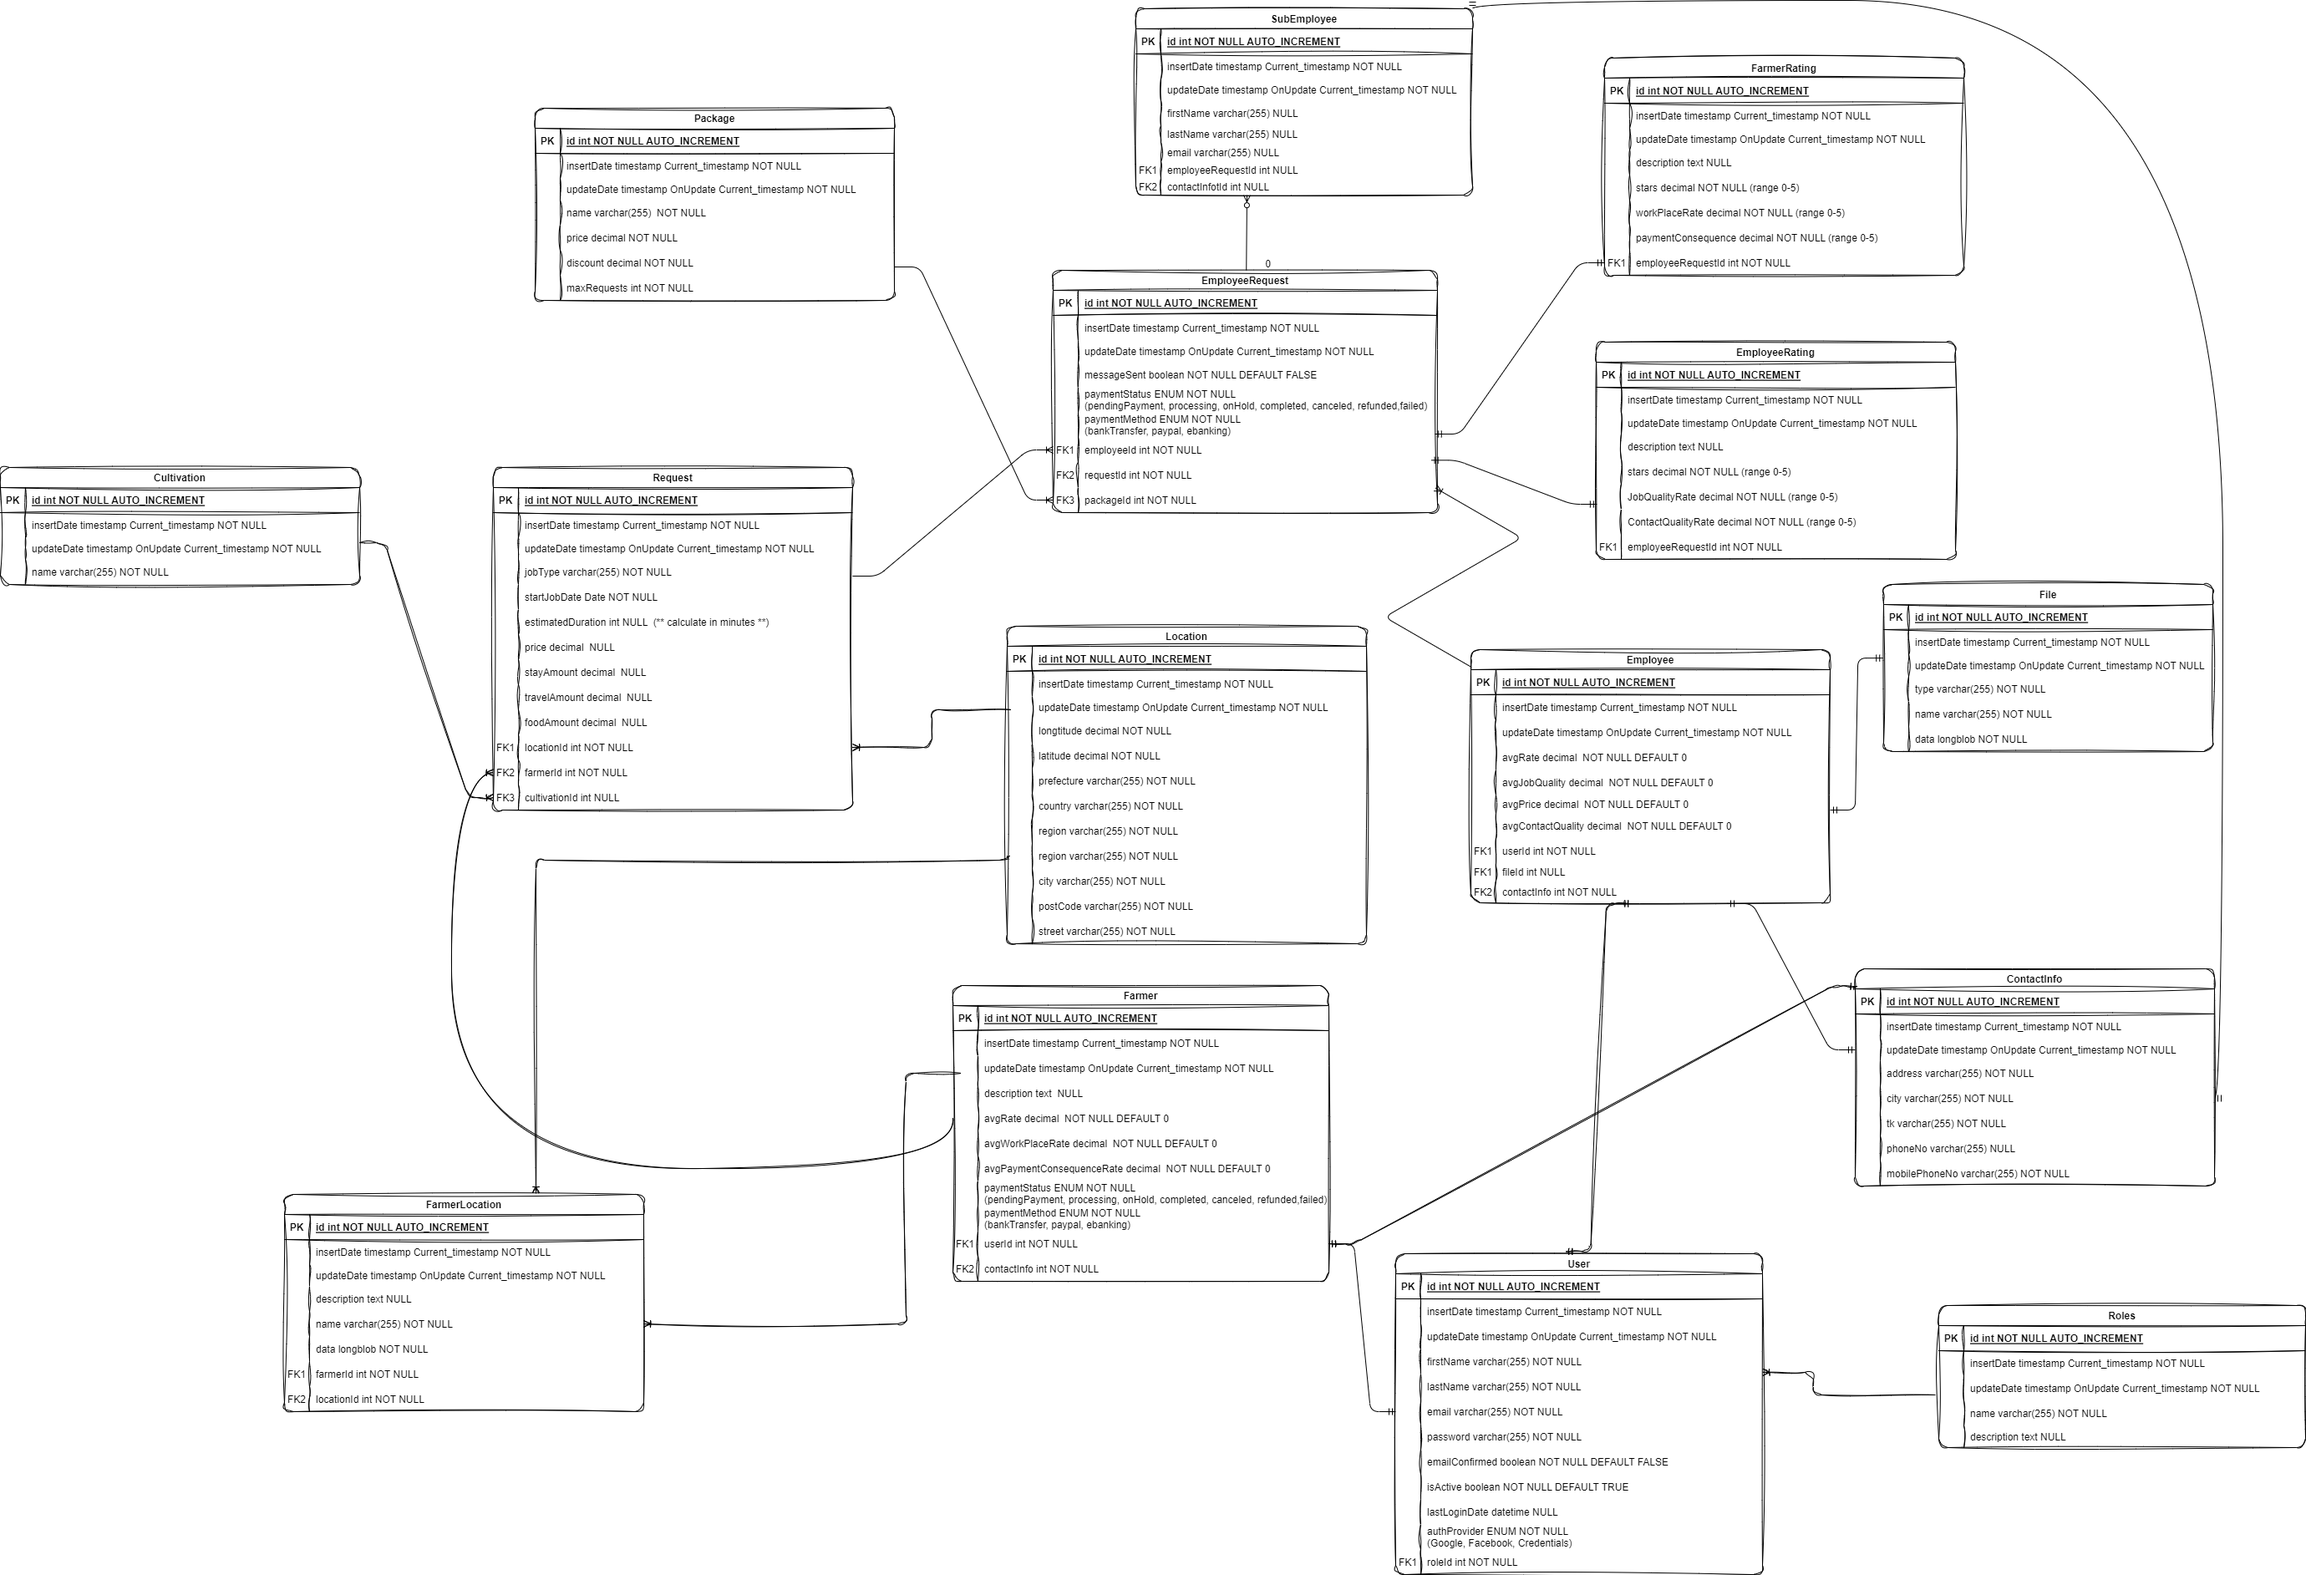
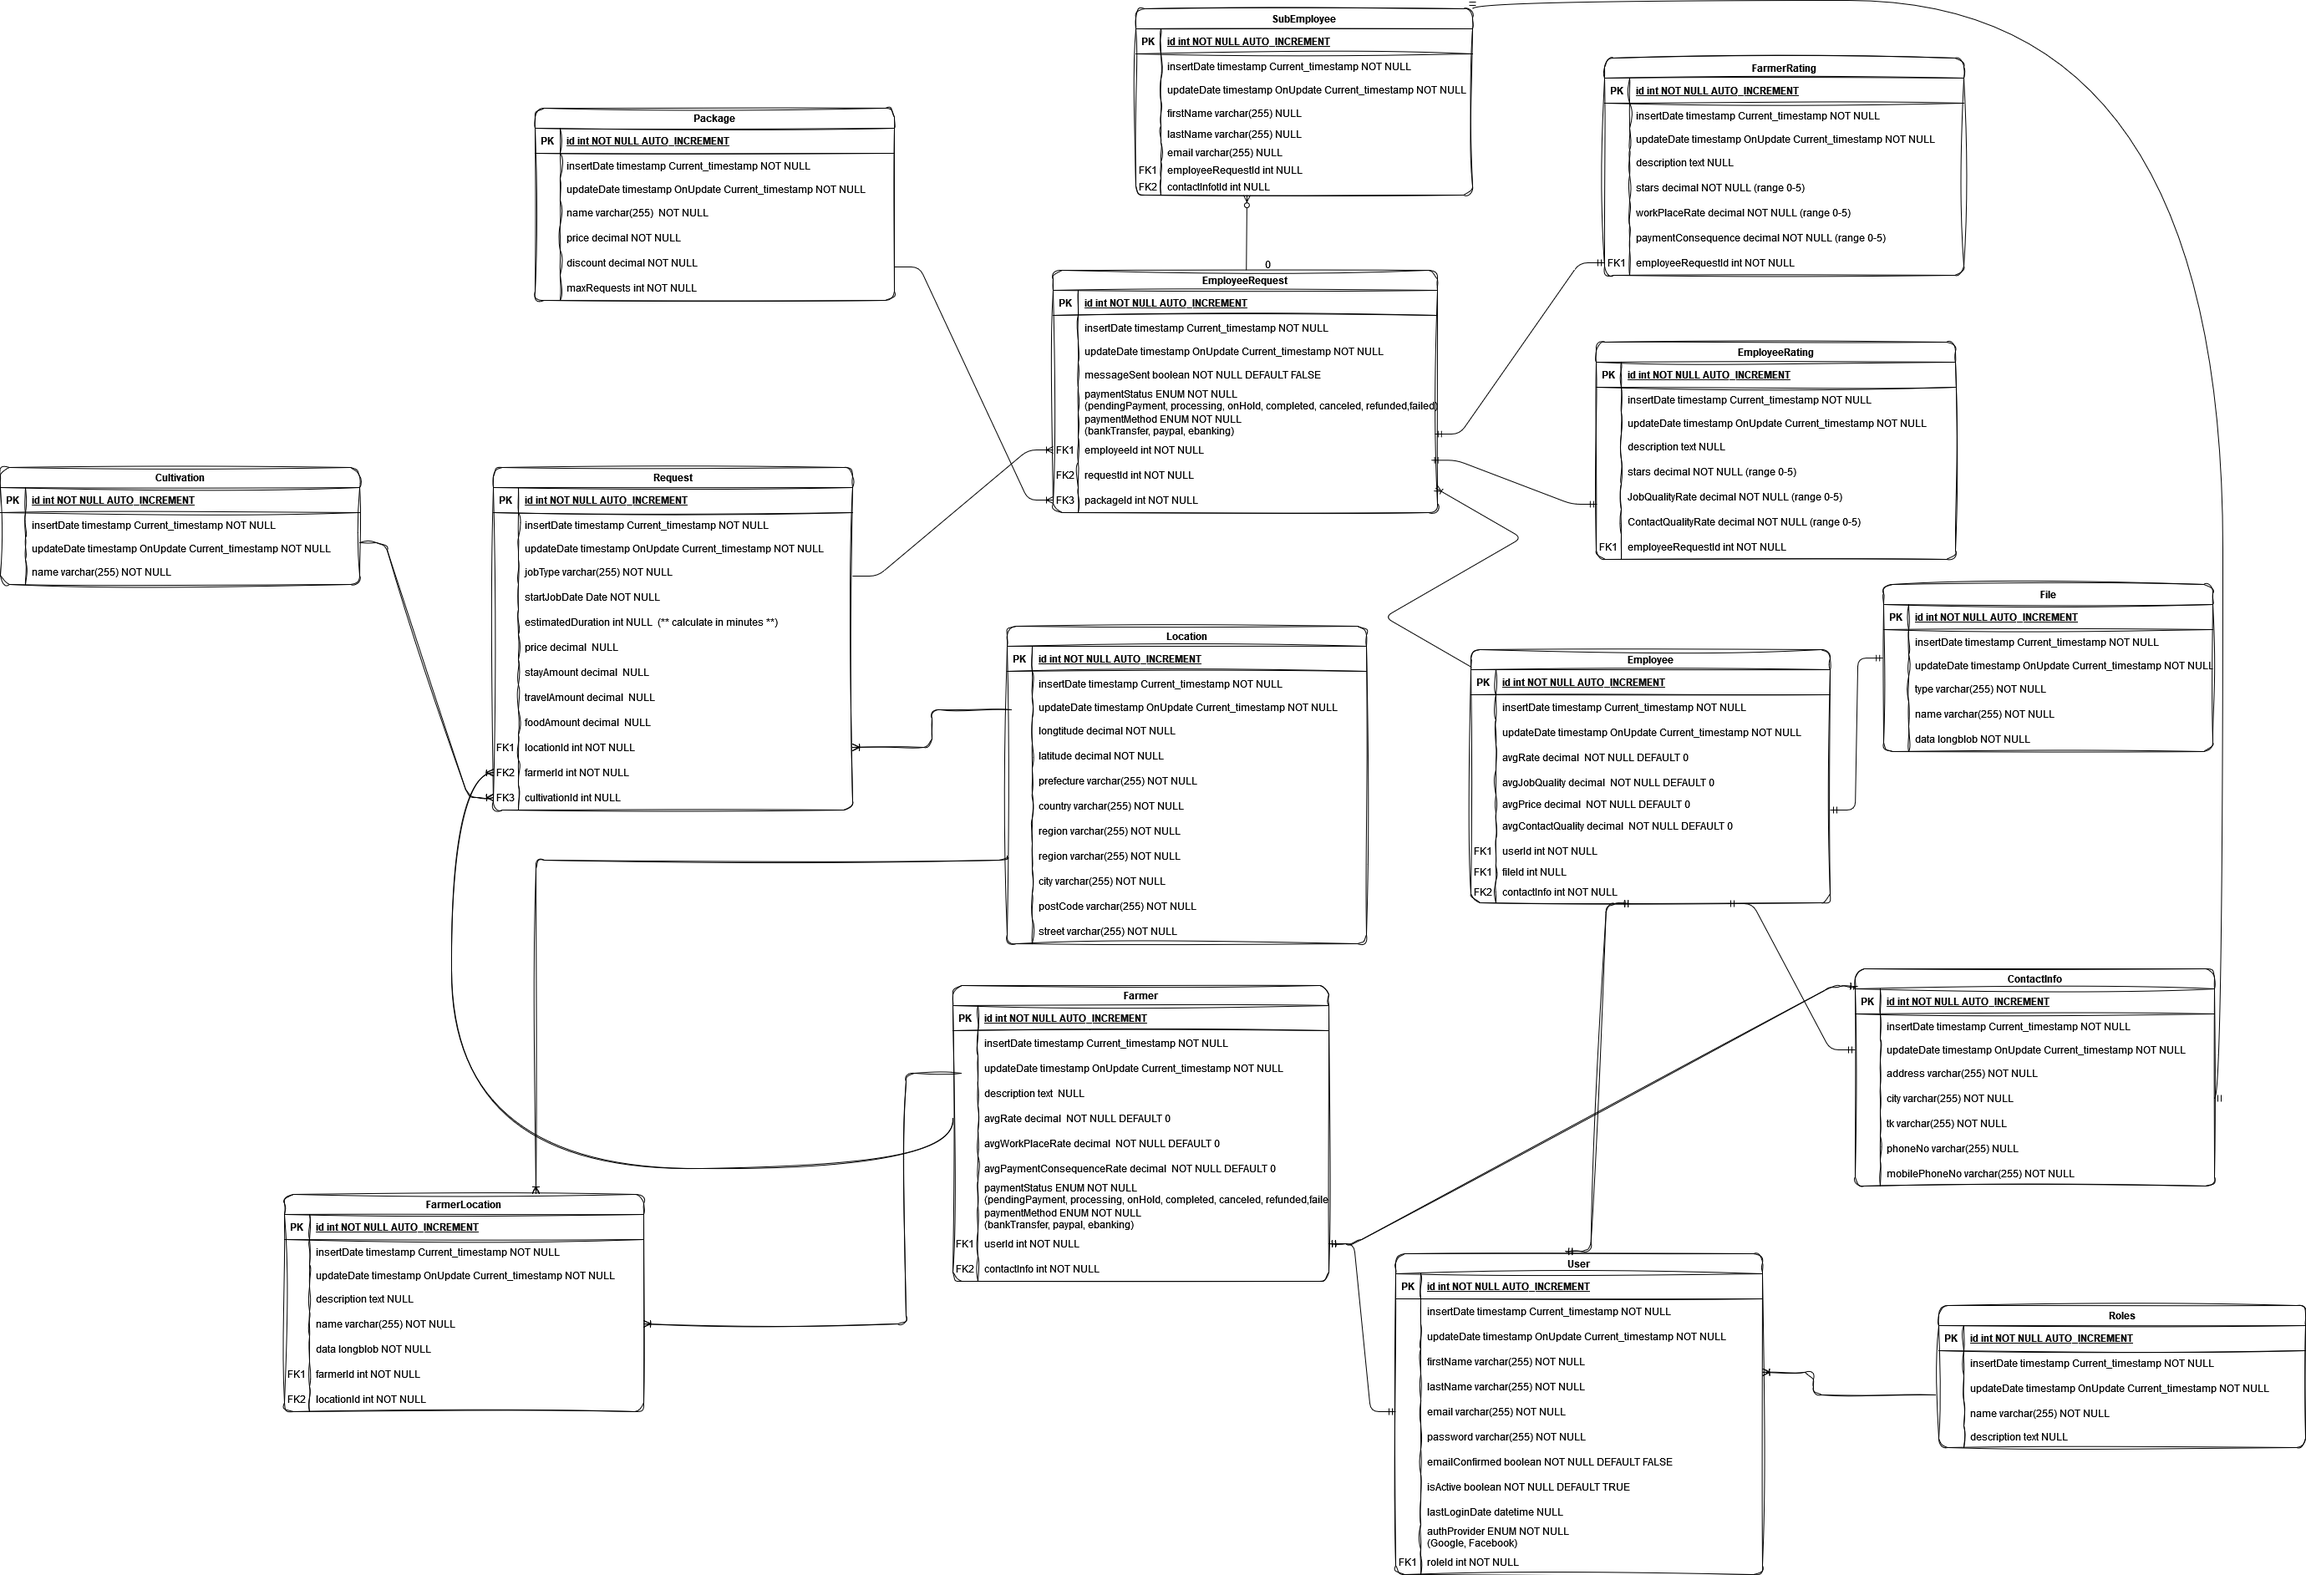
AuthProvider changed

diff --git a/server/Data/Entities/User.cs b/server/Data/Entities/User.cs
@@ -20,9 +20,7 @@
         public bool IsActive { get; set; }
         public DateTime? LastLoginDate { get; set; }
         public int RoleId { get; set; }
-
-        //TODO public string AuthProvider {get; set;} UPDATE IN ER DIAGRAM , ER PNG , MODEL AND UserMap 
-        public string AuthProvider { get; set; }
+        public AuthProvider AuthProvider { get; set; }
         public virtual Role Role { get; set; }
         public virtual ICollection<Employee> Employees { get; set; }
         public virtual ICollection<Farmer> Farmers { get; set; }

diff --git a/server/Data/Mappings/UserMap.cs b/server/Data/Mappings/UserMap.cs
@@ -17,7 +17,7 @@ namespace server.Data.Mappings
 
             entity.Property(e => e.AuthProvider)
                 .IsRequired()
-                .HasColumnType("enum('Google','Facebook','Credentals')")
+                .HasColumnType("enum('Google','Facebook')")
                 .HasColumnName("authProvider");
 
             entity.Property(e => e.Email)
